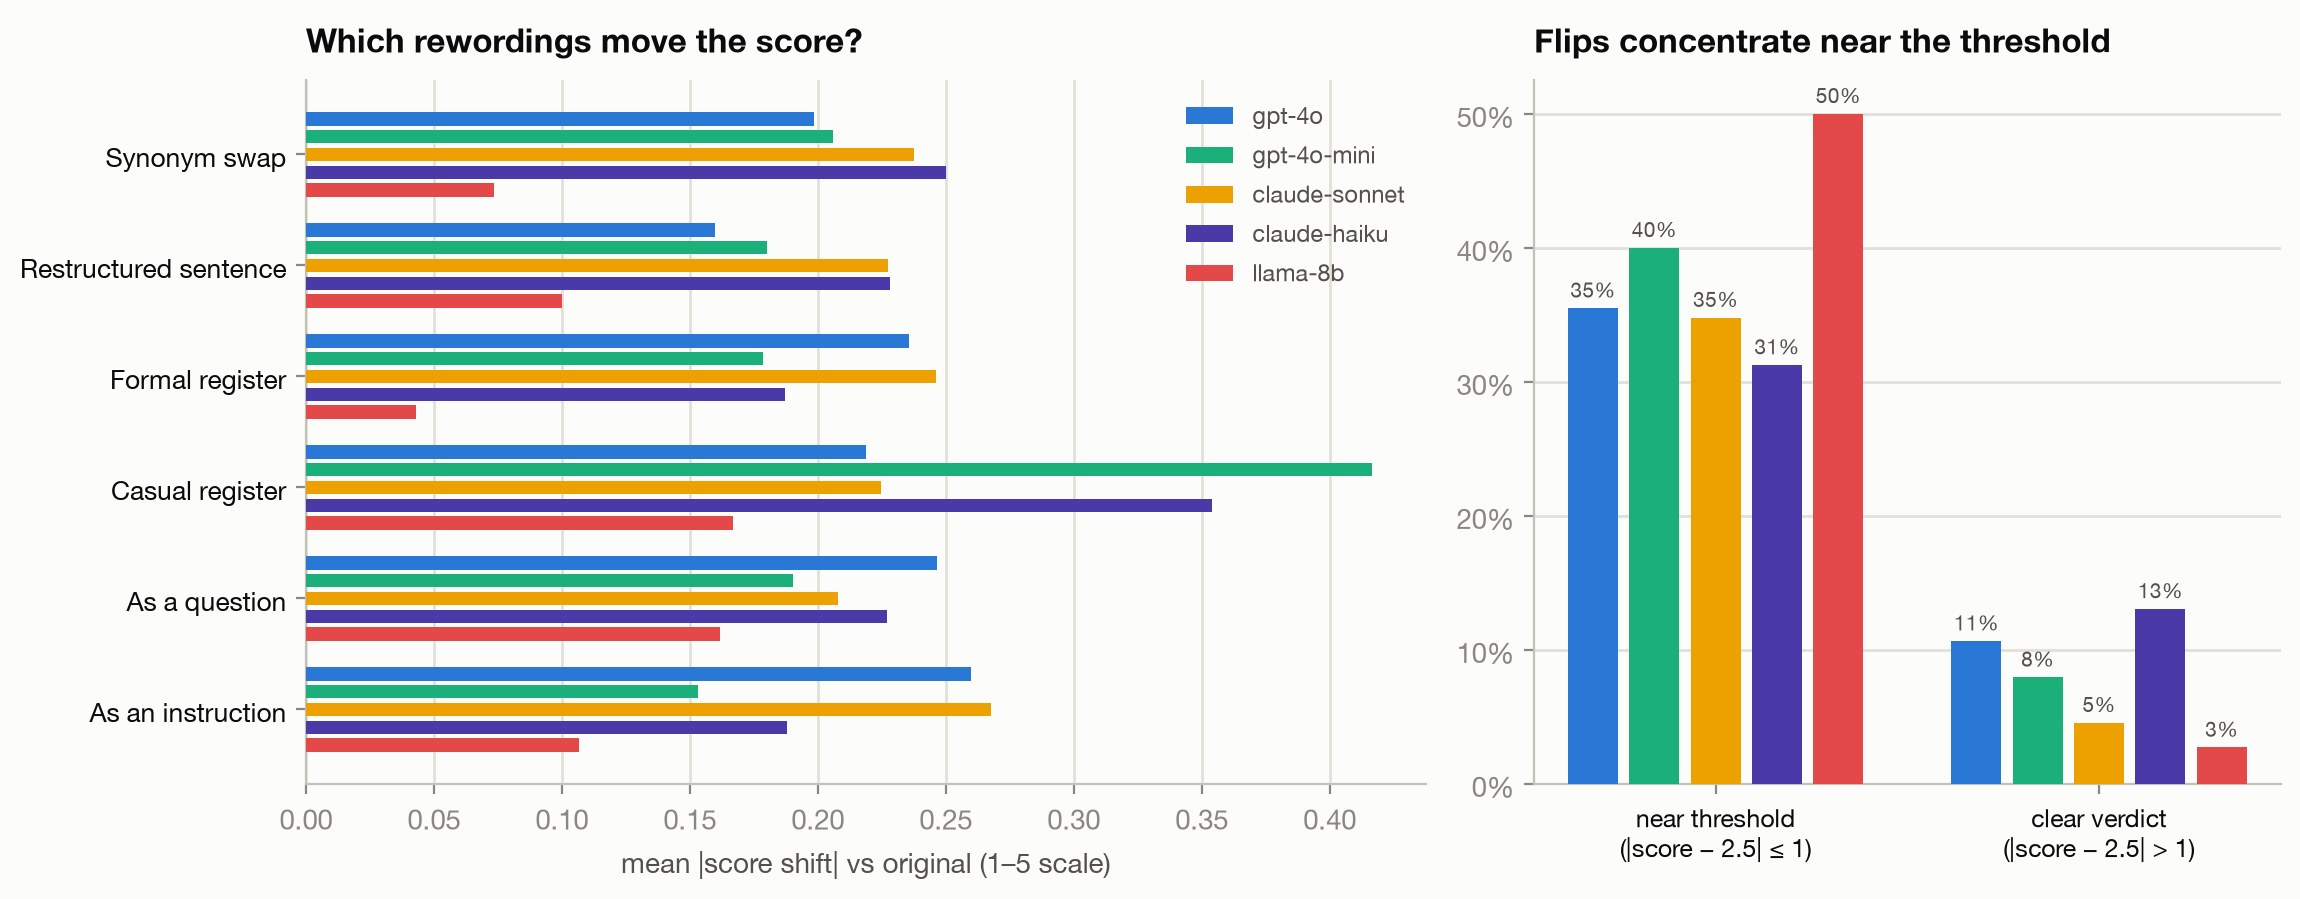
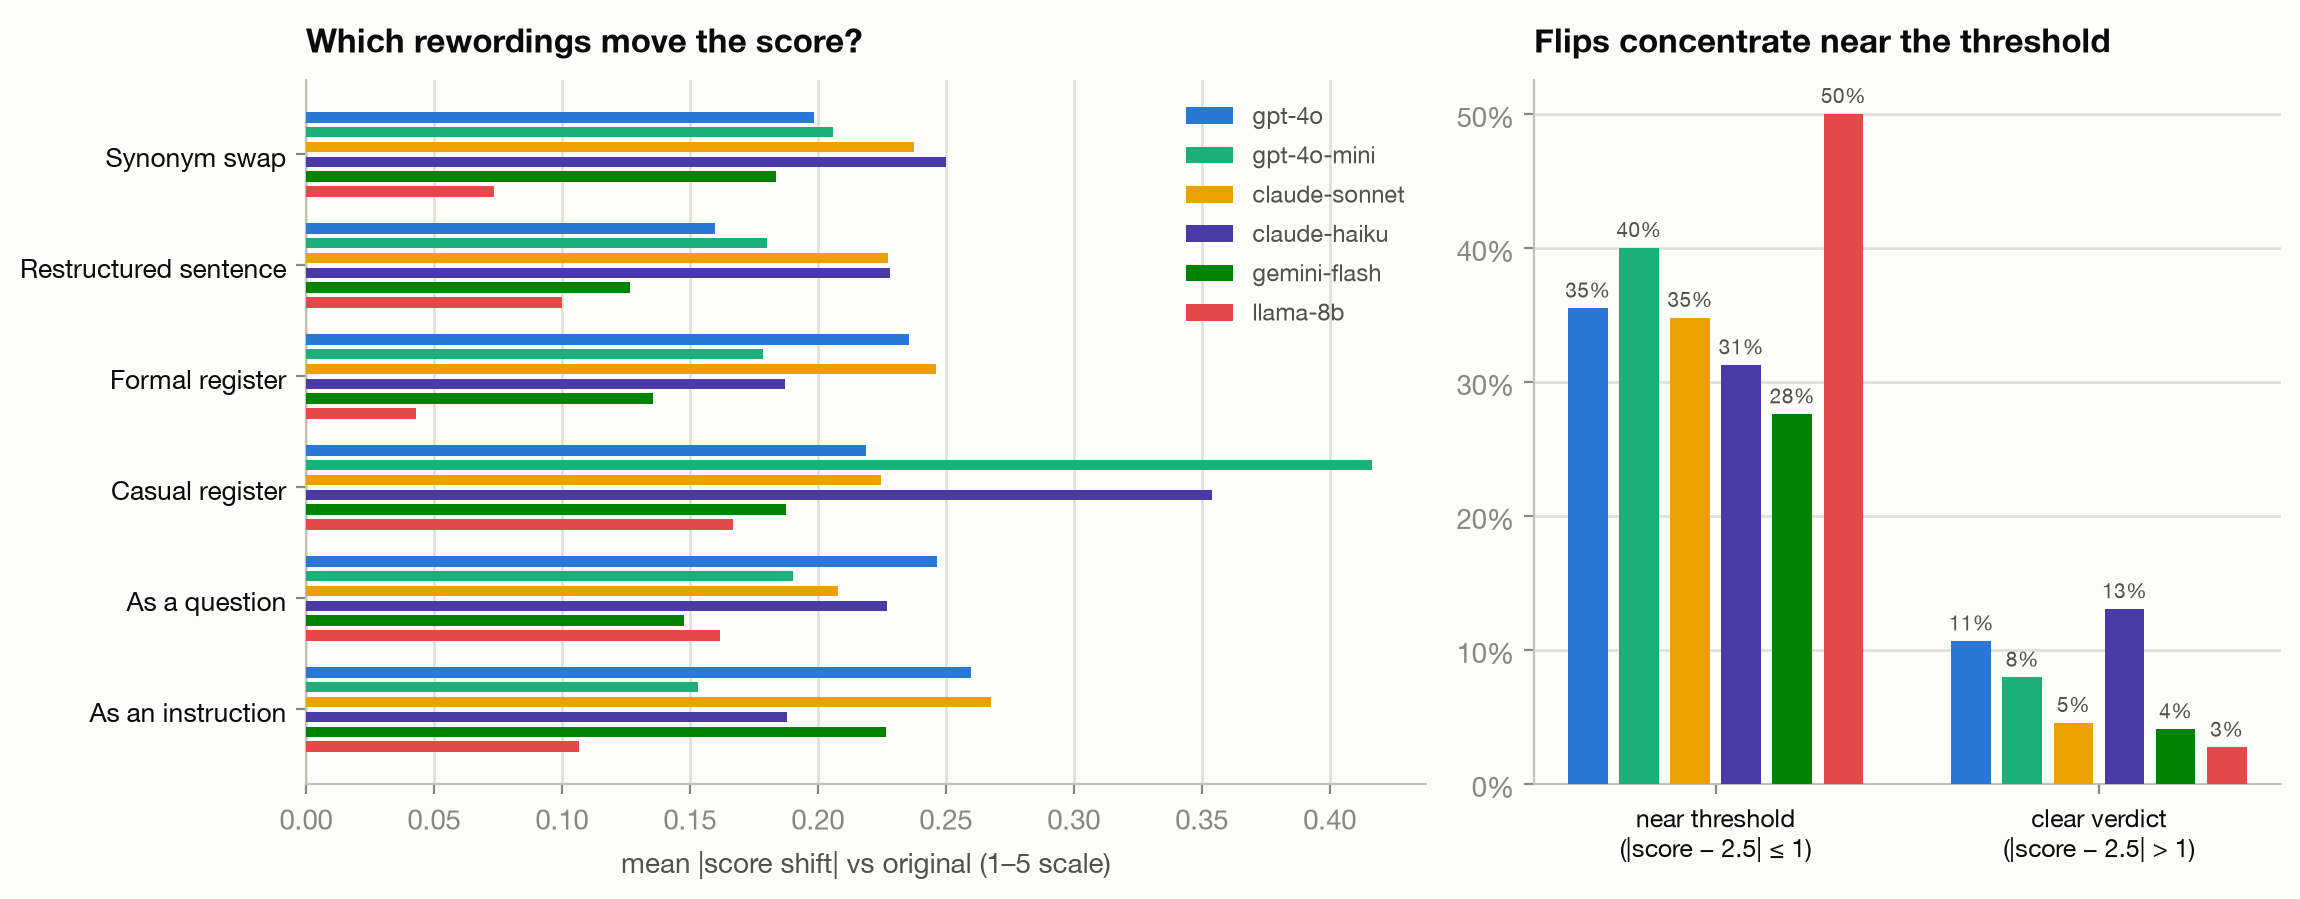
Add Gemini judge (tier-1): six judges, four families
Full E1-E4 for gemini-flash-lite (4,774 calls, ~$0.23, 2 parse
failures). Exclusion reversed in prereg with dated note.

Gemini results: any-of-7 paraphrase flip 12.8% [7,22]; T=0 resample
floor 0.0% (0 flips in 500 repeat pairs - fully deterministic, the
cleanest wording-vs-sampling separation in the study); passes the
resolution check at 3.6x; judge-human rho 0.57-0.66; largest E4 drift
of any judge is its padding PENALTY (-0.27, corrected p=0.07, the only
marginal length effect and it points the wrong way for a halo).

Report/README/figures updated to 6 judges; E4 correction family is now
12 tests (corrected equivalence 2/12, uncorrected 8/12); T=1 floor
range now 7-24%; cache pack refreshed.

diff --git a/analysis/supplementary.py b/analysis/supplementary.py
@@ -37,7 +37,8 @@ from flakyjudge.prompts import build_prompt
 PARA_TYPES = ["lexical", "syntactic", "register_formal", "register_casual",
               "form_question", "form_imperative"]
 CONTROLS = ["control_negated", "control_swapped"]
-JUDGES = ["gpt-4o", "gpt-4o-mini", "claude-sonnet", "claude-haiku", "llama-8b"]
+JUDGES = ["gpt-4o", "gpt-4o-mini", "claude-sonnet", "claude-haiku",
+          "gemini-flash", "llama-8b"]
 MODEL_OF = {"claude-sonnet": "claude-sonnet-4-6",
             "claude-haiku": "claude-haiku-4-5-20251001"}
 TOST_BOUND = 0.25

diff --git a/analysis/make_figures.py b/analysis/make_figures.py
@@ -34,6 +34,7 @@ JUDGE_COLORS = {
     "gpt-4o-mini": "#1baf7a",   # slot 2 aqua
     "claude-sonnet": "#eda100", # slot 3 yellow
     "claude-haiku": "#4a3aa7",  # slot 5 violet
+    "gemini-flash": "#008300",  # slot 4 green
     "llama-8b": "#e34948",      # slot 6 red
 }
 JUDGE_ORDER = list(JUDGE_COLORS)

diff --git a/report/report.md b/report/report.md
@@ -8,25 +8,28 @@ Natural-language unit tests — discrete assertions like *"Does the response
 cite the refund window?"* scored by a judge model — are an increasingly
 popular interface for evaluating LLM outputs (LMUnit, TICK, checklist evals).
 The paradigm's implicit promise is that the criterion's *meaning*, not its
-*wording*, determines the score. We test that promise with five judges in
-three model families on FLASK items (n = 68–78 complete-matrix items per
+*wording*, determines the score. We test that promise with six judges in
+four model families on FLASK items (n = 68–78 complete-matrix items per
 judge, drawn from a 150-item preregistered sample). **Rewording a criterion
-flips the pass/fail verdict on 14–25% of items** (Wilson 95% CIs roughly
+flips the pass/fail verdict on 13–25% of items** (Wilson 95% CIs roughly
 ±8–11 points; judge-vs-judge differences are not distinguishable at this n).
 Under matched-k definitions this is **4–18× each judge's identical-input
-resampling flip rate**. Flips concentrate on items near the decision
+resampling flip rate** — and one judge (gemini flash-lite) is perfectly
+deterministic under T=0 resampling (0 flips in 500 repeat pairs) yet still
+flips 12.8% of verdicts under rewording, cleanly separating wording
+sensitivity from sampling noise. Flips concentrate on items near the decision
 threshold (29–40% vs 4–13% on clear verdicts, a 2–7× concentration):
 criterion wording acts as a hidden decision threshold. Deliberately
 meaning-changed control criteria flip 3.6–6.4× more than true paraphrases
-for all four large judges — and expose that the apparently most "stable"
+for all five large judges — and expose that the apparently most "stable"
 judge (llama-3.1-8b, control/paraphrase ratio 1.1) is stable because it
 barely reads the criterion at all. In contrast, we observe **no verbosity
 bias that survives multiple-comparison correction in any family**:
 with Holm correction applied symmetrically, equivalence within ±0.25
-points is established in 3 of 10 judge×condition cells (7 of 10
-uncorrected), the remaining cells inconclusive, and the one nominally
-significant effect (gpt-4o favoring condensed responses) does not survive
-correction. A
+points is established in 2 of 12 judge×condition cells (8 of 12
+uncorrected), the remaining cells inconclusive, and no drift in any cell
+survives correction (smallest corrected p = 0.07 — gemini's *negative*
+drift under padding, a padding penalty, not a halo). A
 scoring-mode ablation shows logprob-weighted expectation scoring barely
 moves GPT-4o-class judges (Δρ +0.01–0.02, CIs crossing zero) but transforms
 the small open judge (llama-8b: Δρ +0.23, CI [+0.17, +0.29]); contrary to
@@ -80,7 +83,7 @@ candidates (cosine 0.70–0.80) are admitted via a bidirectional
 semantic-equivalence adjudication and tracked as a second tier, with all
 headline analyses run both ways (§3.3). The preregistered 10% spot-check
 (112 variants) was performed by an LLM reviewer (a Claude model that is
-not one of the five judges, though it shares a vendor family with two of
+not one of the judges, though it shares a vendor family with two of
 them — see §5) with per-row verdicts recorded in
 `data/spot_check_sample.jsonl`: 79/83 true paraphrases judged equivalent
 (4.8% failure), and all 29 controls in the sample correctly judged
@@ -91,10 +94,14 @@ unchanged (§3.3). Verbosity variants pass a strict bidirectional claim
 audit; rejects were verified to be genuine content changes.
 
 **Judges.** gpt-4o (2024-11-20), gpt-4o-mini (2024-07-18),
-claude-sonnet-4-6, claude-haiku-4-5 (20251001), llama-3.1-8b-instruct
-(OpenRouter, provider pinned) — T=0, single frozen system prompt,
-direct-digit plus logprob-weighted scores where the API exposes logprobs.
-Gemini was excluded (free-tier rate limits; documented amendment). Format
+claude-sonnet-4-6, claude-haiku-4-5 (20251001), gemini-flash-lite (rolling
+alias — no pinned snapshot exists for this account tier; served model
+recorded per call), llama-3.1-8b-instruct (OpenRouter, provider pinned) —
+T=0, single frozen system prompt, direct-digit plus logprob-weighted
+scores where the API exposes logprobs. Gemini was initially excluded on
+free-tier rate limits and re-included after a paid-tier upgrade
+(documented amendment); it was added after the spot-check review, whose
+reviewer is not any judge under test. Format
 compliance is itself a result: claude-sonnet ignores the bare-digit
 instruction on ~10% of calls (haiku ~1.5%, OpenAI and Llama ~0%); an
 extended-token reissue salvaged 61% of Sonnet's failures, and §3.3 shows
@@ -109,32 +116,37 @@ fraction of items whose verdict is not unanimous across k wordings
 (mechanically grows with k, so cross-condition comparisons use matched k);
 **per-variant** = mean disagreement between one variant and the original.
 
-| | gpt-4o | gpt-4o-mini | claude-sonnet | claude-haiku | llama-8b |
-|---|---|---|---|---|---|
-| n (complete matrix) | 78 | 78 | 68 | 78 | 78 |
-| Any-of-7 paraphrase flip [95% CI] | 20.5% [13, 31] | 14.1% [8, 24] | 25.0% [16, 36] | 20.5% [13, 31] | 5.1% [2, 12] |
-| Any-of-5 paraphrase flip (matched k) | 16.2% | 10.8% | 20.6% | 16.9% | 4.6% |
-| Any-of-5 resample floor (T=0) | 4.0% | 2.0% | 1.1% | 1.0% | 1.0% |
-| **Matched-k ratio** | **4.1×** | **5.4×** | **18.3×** | **16.9×** | 4.6× |
-| Per-variant: paraphrase / floor | 5.6 / 2.5% | 3.9 / 1.2% | 8.2 / 0.8% | 6.2 / 0.8% | 2.2 / 0.8% |
+| | gpt-4o | gpt-4o-mini | claude-sonnet | claude-haiku | gemini-flash | llama-8b |
+|---|---|---|---|---|---|---|
+| n (complete matrix) | 78 | 78 | 68 | 78 | 78 | 78 |
+| Any-of-7 paraphrase flip [95% CI] | 20.5% [13, 31] | 14.1% [8, 24] | 25.0% [16, 36] | 20.5% [13, 31] | 12.8% [7, 22] | 5.1% [2, 12] |
+| Any-of-5 paraphrase flip (matched k) | 16.2% | 10.8% | 20.6% | 16.9% | 11.4% | 4.6% |
+| Any-of-5 resample floor (T=0) | 4.0% | 2.0% | 1.1% | 1.0% | 0.0% | 1.0% |
+| **Matched-k ratio** | **4.1×** | **5.4×** | **18.3×** | **16.9×** | undefined* | 4.6× |
+| Per-variant: paraphrase / floor | 5.6 / 2.5% | 3.9 / 1.2% | 8.2 / 0.8% | 6.2 / 0.8% | 5.3 / 0.0% | 2.2 / 0.8% |
+
+\* gemini produced zero flips across all T=0 resample pairs (floor Wilson
+CI [0, 3.7%]) — the ratio is undefined; at the floor CI's upper bound it
+would be ≥3.1×. Its 11.4% paraphrase flip rate on a 0.0% measured floor is
+the cleanest wording-vs-sampling separation in the study.
 
 At these sample sizes the judge-vs-judge ordering is **not** established —
-the CIs overlap heavily; the supported claim is that all four large judges
-flip in the 14–25% range, far above their floors.
+the CIs overlap heavily; the supported claim is that all five large judges
+flip in the 13–25% range, far above their floors.
 
 **Instrument resolution (preregistered validity control #3), evaluated
 formally with matched per-variant definitions** — control flip vs
 paraphrase flip, both per-variant vs original:
 
-| | gpt-4o | gpt-4o-mini | claude-sonnet | claude-haiku | llama-8b |
-|---|---|---|---|---|---|
-| Paraphrase (per-variant) | 5.6% | 3.9% | 8.2% | 6.2% | 2.2% |
-| Meaning-changed control (per-variant) | 21.3% | 14.0% | 34.6% | 39.5% | 2.3% |
-| Ratio | 3.8 | 3.6 | 4.2 | 6.4 | **1.1** |
+| | gpt-4o | gpt-4o-mini | claude-sonnet | claude-haiku | gemini-flash | llama-8b |
+|---|---|---|---|---|---|---|
+| Paraphrase (per-variant) | 5.6% | 3.9% | 8.2% | 6.2% | 5.3% | 2.2% |
+| Meaning-changed control (per-variant) | 21.3% | 14.0% | 34.6% | 39.5% | 19.3% | 2.3% |
+| Ratio | 3.8 | 3.6 | 4.2 | 6.4 | 3.6 | **1.1** |
 
 The pass criterion (control > 1.5× paraphrase) is a post-hoc formalization
 of the preregistered "substantially exceeds" — but the pattern is not
-subtle: every large judge clears 3.6×, and llama-8b sits at 1.1×. Its low
+subtle: all five large judges clear 3.6×, and llama-8b sits at 1.1×. Its low
 paraphrase flip rate reflects insensitivity to the criterion, not
 robustness. (Controls also shift raw scores 3–4× more than paraphrases for
 the large judges.)
@@ -150,7 +162,7 @@ gpt-4o-mini (|Δ| 0.42) and claude-haiku (0.35); form changes
 **The T=1 noise floor is a finding of its own.** All scoring in E1/E3/E4
 ran at temperature 0, so the T=0 floor is the matched baseline above. But
 the preregistered T=1 floor deserves its own line: identical-input
-resampling at T=1 flips 10–24% of verdicts (gpt-4o 19%, llama 24%) —
+resampling at T=1 flips 7–24% of verdicts (gpt-4o 19%, llama 24%) —
 rivaling paraphrase sensitivity itself. If you run a judge at nonzero
 temperature, sampling noise alone can dominate everything this study
 measures. (This also means the "4–18×" multiplier is specific to T=0
@@ -166,19 +178,21 @@ sensitivity, echoing [2]'s response-level finding.
 
 Per-judge paired drifts (variant − original; per-cell n = 71–82 after the
 claim audit), with 95% CIs and Holm step-down correction applied
-symmetrically to BOTH ten-test families — the Wilcoxon difference tests
+symmetrically to BOTH twelve-test families — the Wilcoxon difference tests
 and the TOST equivalence tests (±0.25-point bound, chosen post-hoc; the
 preregistered design detects ~0.16 at n=150, the realized n detects
 ~0.22–0.24):
 
-| drift | gpt-4o | gpt-4o-mini | claude-sonnet | claude-haiku | llama-8b |
-|---|---|---|---|---|---|
-| Padded 1.84× | +0.01 [−0.20, +0.23] | −0.13 [−0.40, +0.13] | −0.12 [−0.25, +0.01] | −0.11 [−0.32, +0.10] | +0.09 [−0.04, +0.21]ᴱ |
-| Condensed 0.54× | +0.23 [+0.04, +0.43] | −0.05 [−0.18, +0.08]ᴱ | −0.11 [−0.24, +0.02] | +0.05 [−0.17, +0.26] | +0.00 [−0.11, +0.11]ᴱ |
+| drift | gpt-4o | gpt-4o-mini | claude-sonnet | claude-haiku | gemini-flash | llama-8b |
+|---|---|---|---|---|---|---|
+| Padded 1.84× | +0.01 [−0.20, +0.23] | −0.13 [−0.40, +0.13] | −0.12 [−0.25, +0.01] | −0.11 [−0.32, +0.10] | −0.27 [−0.46, −0.08] | +0.09 [−0.04, +0.21] |
+| Condensed 0.54× | +0.23 [+0.04, +0.43] | −0.05 [−0.18, +0.08]ᴱ | −0.11 [−0.24, +0.02] | +0.05 [−0.17, +0.26] | +0.05 [−0.17, +0.26] | +0.00 [−0.11, +0.11]ᴱ |
 
-ᴱ = equivalence within ±0.25 established after Holm correction (3 of 10
-cells; 7 of 10 before correction). **No drift in any cell survives Holm
-correction either** (smallest corrected p = 0.28, gpt-4o condensed). The
+ᴱ = equivalence within ±0.25 established after Holm correction (2 of 12
+cells; 8 of 12 before correction). **No drift in any cell survives Holm
+correction either** (smallest corrected p = 0.071 — and that near-miss is
+gemini's *negative* padded drift: the only marginal length effect in the
+study is a padding penalty, not a halo). The
 honest summary: we detect no verbosity bias in any family, but with
 corrected equivalence established in only 3 cells, most cells are
 *inconclusive* — consistent with no bias, insufficient to prove its
@@ -225,7 +239,7 @@ All numbers regenerable via `analysis/supplementary.py` →
 
 ### 3.4 Anchors and scoring-mode ablations (E1)
 
-Judge–human Spearman ρ: 0.54–0.70 for the four large judges (best:
+Judge–human Spearman ρ: 0.54–0.70 for the five large judges (best:
 claude-sonnet 0.69–0.70 on FLASK) vs llama-8b's 0.06–0.23 direct-scored.
 For context, FLASK's leave-one-annotator-out agreement is ρ ≈ 0.56 — note
 this is a *different statistic* (single annotator vs the other two) than
@@ -242,8 +256,8 @@ together. Secondary findings:
   to usable (ρ≈0.43). It does not, however, reduce paraphrase flip rates
   for the large judges (§3.3).
 - **Rubrics make every judge harsher, but improve validity only for one:**
-  appending the FLASK rubric+reference shifts scores down for all five
-  judges (−0.11 to −0.36, CIs exclude zero) while the correlation gain is
+  appending the FLASK rubric+reference shifts scores down for all six
+  judges (−0.11 to −0.36) while the correlation gain is
   ~zero for the OpenAI judges (Δρ +0.001 / +0.034, CIs crossing zero),
   marginal for claude-haiku (+0.039 [−0.001, +0.080]), and real for
   claude-sonnet (+0.060 [+0.027, +0.095]). "Rubrics don't help" is
@@ -273,8 +287,8 @@ together. Secondary findings:
 
 ## 5. Limitations
 
-Five judges across three families (Gemini excluded by free-tier rate
-limits); FLASK-only for the headline experiments (E1 also covers
+Six judges across four families (gemini via a rolling alias with no
+pinned snapshot — served model recorded per call); FLASK-only for the headline experiments (E1 also covers
 BiGGen-Bench); FLASK items and human labels may be in judges' training
 data (the perturbation experiments are contamination-resistant by
 construction, the E1 correlations less so). n = 68–78 complete-matrix

diff --git a/README.md b/README.md
@@ -16,16 +16,20 @@ its meaning, does the verdict change?
 results, practical guidance, limitations.
 
 > Experimental design frozen in [PREREGISTRATION.md](https://github.com/ShivaSankeerth/flakyjudge/blob/main/PREREGISTRATION.md).
-> Five judges across three families: gpt-4o, gpt-4o-mini, claude-sonnet-4-6,
-> claude-haiku-4-5, llama-3.1-8b. ~24,000 scored triples, $19 total spend.
+> Six judges across four families: gpt-4o, gpt-4o-mini, claude-sonnet-4-6,
+> claude-haiku-4-5, gemini-flash-lite, llama-3.1-8b. ~29,000 scored
+> triples, $19 total spend.
 
 ## Findings
 
-- **Rewording a unit test flips its pass/fail verdict on 14–25% of items**
+- **Rewording a unit test flips its pass/fail verdict on 13–25% of items**
   (n=68–78 per judge; Wilson 95% CIs ±8–11 points, so the judge-vs-judge
   ordering is not established) — **4–18× each judge's identical-input
   resampling flip rate** under matched-k definitions (T=0; at T=1,
-  sampling noise alone rivals the wording effect).
+  sampling noise alone rivals the wording effect). One judge
+  (gemini-flash-lite) is perfectly deterministic under resampling — 0
+  flips in 500 repeat pairs — yet flips 12.8% of verdicts under
+  rewording.
 - **Criterion wording acts as a hidden decision threshold:** flips
   concentrate ~2–7× on items whose scores sit near the pass/fail cut
   (29–40%) vs clear verdicts (4–13%).
@@ -33,15 +37,17 @@ results, practical guidance, limitations.
   ![Flip rates vs noise floor and controls](https://raw.githubusercontent.com/ShivaSankeerth/flakyjudge/main/figures/fig2_flip_rates.png)
 - **"Stability" without validity is insensitivity — the controls catch it:**
   llama-8b looks most stable under paraphrase, but its meaning-*changed*
-  control flip rate is only 1.1× its paraphrase rate (the four large
+  control flip rate is only 1.1× its paraphrase rate (the five large
   judges: 3.6–6.4×) — it isn't robust, it isn't reading the criterion.
 
   ![Which rewordings move the score](https://raw.githubusercontent.com/ShivaSankeerth/flakyjudge/main/figures/fig3_mechanism.png)
 - **No detectable verbosity bias in any family:** content-matched 1.8×
   padding produces no drift that survives multiple-comparison correction;
   with the same correction applied to the equivalence tests, formal
-  equivalence within ±0.25 points holds in 3 of 10 judge×condition cells
-  (7 of 10 uncorrected) — the rest are inconclusive, not positive. The
+  equivalence within ±0.25 points holds in 2 of 12 judge×condition cells
+  (8 of 12 uncorrected) — the rest are inconclusive, not positive. The
+  only marginal length effect anywhere is gemini *penalizing* padding
+  (−0.27, corrected p = 0.07). The
   length halo documented for holistic/pairwise judging does not appear in
   this criterion-anchored setting (no within-study holistic arm, so no
   causal claim).
@@ -65,9 +71,9 @@ results, practical guidance, limitations.
 
 ## What this is
 
-An empirical robustness study across 5 judge models in 3 families (GPT-4o,
-GPT-4o-mini, Claude Sonnet 4.6, Claude Haiku 4.5, Llama-3.1-8B) on FLASK
-and BiGGen-Bench items, plus a small library implementing the measurement
+An empirical robustness study across 6 judge models in 4 families (GPT-4o,
+GPT-4o-mini, Claude Sonnet 4.6, Claude Haiku 4.5, Gemini Flash-Lite,
+Llama-3.1-8B) on FLASK and BiGGen-Bench items, plus a small library implementing the measurement
 tools and mitigations:
 
 - **E1** — judge-human correlation anchor; logprob-weighted vs. direct scoring

diff --git a/PREREGISTRATION.md b/PREREGISTRATION.md
@@ -123,12 +123,14 @@ Salvage recovered 186/304 sonnet and 11/54 haiku failures; the remainder
 were still mid-analysis at 256 tokens and stay missing. All Claude analyses
 are reported with and without salvaged scores.
 
-**Judge exclusion note (2026-07-16):** gemini-flash is excluded. Google's
-free tier for new API accounts exposes only a rolling model alias
-(resolving to gemini-3.1-flash-lite) at 15 requests/minute with older flash
-models closed to new users; the ~4,800-call suite is infeasible within the
-study window without paid quota. Final lineup: 5 judges across 3 families
-(OpenAI, Anthropic, Meta/open-weights).
+**Judge exclusion note (2026-07-16, reversed 2026-07-17):** gemini-flash
+was excluded while the account's free tier allowed 15 requests/minute on
+the only accessible model alias. After a paid tier-1 upgrade the full
+suite became feasible and the judge was re-included, run with the same
+frozen prompt and manifests as all other judges. Final lineup: 6 judges
+across 4 families (OpenAI, Anthropic, Google, Meta/open-weights). Caveat
+inherited from the alias: no pinned snapshot exists for this account tier;
+the served model is recorded per call as provenance.
 
 ## Primary metrics
 